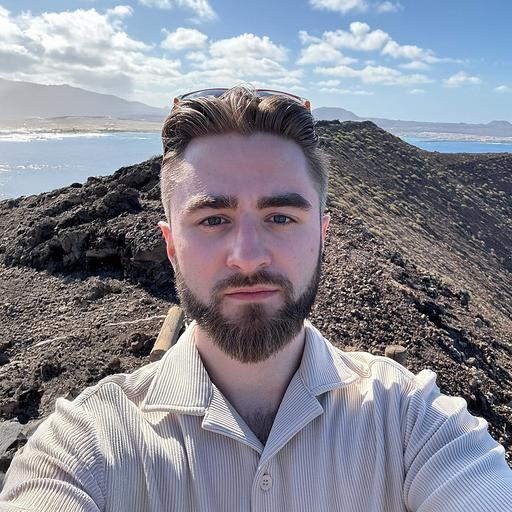
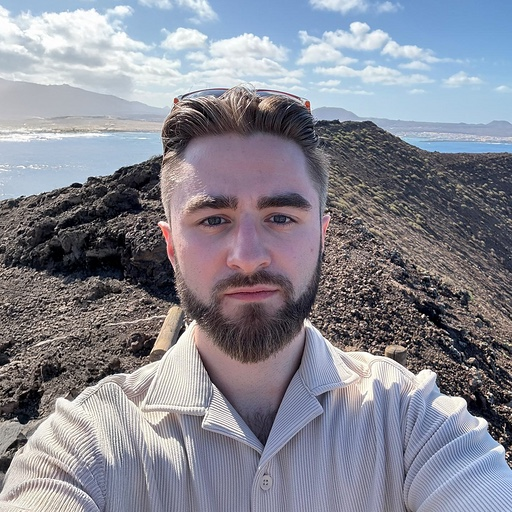
Updates

diff --git a/index.html b/index.html
@@ -14,8 +14,8 @@
     <meta name="theme-color" content="#141414">
     <meta name="apple-mobile-web-app-capable" content="yes">
     <meta name="apple-mobile-web-app-status-bar-style" content="black-translucent">
-    <script type="module" crossorigin src="/assets/index-N_7lyTsB.js"></script>
-    <link rel="stylesheet" crossorigin href="/assets/index-CEzeGbbk.css">
+    <script type="module" crossorigin src="/assets/index-DqF2M5rv.js"></script>
+    <link rel="stylesheet" crossorigin href="/assets/index-rmvKy0jj.css">
   </head>
   <body>
     <div id="root"></div>

diff --git a/assets/index-rmvKy0jj.css b/assets/index-rmvKy0jj.css
@@ -1,0 +1,1 @@
+@import"https://fonts.googleapis.com/css2?family=Inter:wght@300;400;500;600;700&family=JetBrains+Mono:wght@400;500;600&family=Press+Start+2P&display=swap";*{margin:0;padding:0;box-sizing:border-box}:root{--bg: #0a0a0f;--surface: rgba(17, 17, 24, .8);--surface-solid: #111118;--surface-hover: #18181f;--border: rgba(255, 255, 255, .08);--border-light: rgba(255, 255, 255, .12);--text: #f5f5f5;--text-dim: rgba(255, 255, 255, .55);--text-muted: rgba(255, 255, 255, .3);--green: #22C55E;--green-tint: rgba(34, 197, 94, .08);--green-glow: rgba(34, 197, 94, .25);--yellow: #f59e0b;--yellow-tint: rgba(245, 158, 11, .07);--yellow-glow: rgba(245, 158, 11, .25);--red: #EF4444;--red-tint: rgba(239, 68, 68, .08);--red-glow: rgba(239, 68, 68, .25);--purple: #F97316;--pink: #FB923C;--orange: #F97316}body{background:var(--bg);background-image:radial-gradient(ellipse at 20% 0%,rgba(139,92,246,.04) 0%,transparent 50%),radial-gradient(ellipse at 80% 100%,rgba(249,115,22,.03) 0%,transparent 50%);color:var(--text);font-family:Inter,-apple-system,BlinkMacSystemFont,Segoe UI,sans-serif;min-height:100vh;line-height:1.5}.app{max-width:1400px;margin:0 auto;padding:40px 60px;min-height:100vh}.header{display:flex;justify-content:space-between;align-items:flex-start;margin-bottom:48px;padding-bottom:24px;border-bottom:1px solid var(--border)}.header-left{display:flex;flex-direction:column;gap:4px}.title{font-size:28px;font-weight:700;letter-spacing:-.03em}.title-accent{background:linear-gradient(135deg,#f97316,#fb923c 40%,#fbbf24);-webkit-background-clip:text;-webkit-text-fill-color:transparent;background-clip:text;filter:drop-shadow(0 0 12px rgba(249,115,22,.15))}.title-text{color:var(--text);margin-left:8px;font-weight:300;opacity:.9}.subtitle{color:var(--text-muted);font-size:13px;letter-spacing:.01em}.header-right{display:flex;align-items:center;gap:16px}.period-selector{display:flex;gap:8px}.period-select{padding:8px 12px;background:var(--surface);border:1px solid var(--border);border-radius:8px;color:var(--text);font-size:13px;font-weight:500;cursor:pointer;outline:none}.period-select:hover{border-color:#ffffff26}.period-select:focus{border-color:var(--orange)}.view-toggle{display:flex;gap:4px;padding:4px;background:var(--surface);border-radius:10px;border:1px solid var(--border)}.toggle-btn{padding:8px 16px;border:none;border-radius:8px;font-size:13px;font-weight:500;color:var(--text-dim);background:transparent;cursor:pointer;transition:all .2s ease}.toggle-btn:hover{color:var(--text);background:var(--surface-hover)}.toggle-btn.active{color:var(--text);background:linear-gradient(135deg,#f9731633,#fb923c26)}.health-summary{display:flex;gap:8px}.health-item{display:flex;align-items:center;gap:6px;padding:6px 14px;border-radius:20px;font-size:13px;font-weight:600;font-family:JetBrains Mono,monospace;letter-spacing:-.02em;transition:all .2s ease}.health-item.green{background:#22c55e1a;color:var(--green);border:1px solid rgba(34,197,94,.2)}.health-item.green:hover{background:#22c55e26;box-shadow:0 0 12px #22c55e26}.health-item.yellow{background:#f59e0b14;color:var(--yellow);border:1px solid rgba(245,158,11,.2)}.health-item.yellow:hover{background:#f59e0b1f;box-shadow:0 0 12px #f59e0b26}.health-item.red{background:#ef44441a;color:var(--red);border:1px solid rgba(239,68,68,.2)}.health-item.red:hover{background:#ef444426;box-shadow:0 0 12px #ef444426}.health-dot{width:8px;height:8px;border-radius:50%;background:currentColor;box-shadow:0 0 6px currentColor}.health-label{font-size:10px;font-weight:500;font-family:Inter,sans-serif;text-transform:uppercase;letter-spacing:.04em;opacity:.8}.cards-grid{display:grid;grid-template-columns:repeat(2,1fr);gap:20px;animation:cards-fade-in .5s ease-out}@keyframes cards-fade-in{0%{opacity:0;transform:translateY(12px)}to{opacity:1;transform:translateY(0)}}.dept-card.dept-centered{grid-column:1 / -1;justify-self:center;width:calc(50% - 10px);max-width:100%}@media(max-width:1000px){.cards-grid{grid-template-columns:1fr}.dept-card.dept-centered{width:100%}.app{padding:24px 28px}}@media(max-width:640px){.app{padding:16px 14px}.cards-grid{gap:12px}.header{flex-direction:column;gap:12px;margin-bottom:20px;padding-bottom:16px;align-items:stretch}.title{font-size:20px}.subtitle{font-size:12px}.header-right{display:flex;flex-wrap:wrap;align-items:center;gap:8px;width:100%}.period-selector{display:flex;gap:6px;flex-shrink:0}.period-select{font-size:12px;padding:7px 8px;width:auto}.view-toggle{flex-shrink:0}.toggle-btn{padding:7px 10px;font-size:12px}.health-summary{gap:5px}.health-item{padding:4px 8px;font-size:11px;gap:4px}.health-dot{width:6px;height:6px}.sync-btn{width:30px;height:30px;font-size:14px}.dept-card{padding:14px 0 14px 12px;border-radius:12px;overflow:visible}.dept-header{margin-bottom:10px;padding-bottom:10px;gap:8px}.dept-icon{font-size:16px}.dept-name{font-size:14px}.dri-name{display:none}.dri-avatar{width:26px;height:26px}.dept-table{overflow-x:auto;-webkit-overflow-scrolling:touch;scrollbar-width:none;margin-right:-12px;padding-right:12px}.dept-table::-webkit-scrollbar{display:none}.time-headers{overflow-x:visible;margin-bottom:6px;min-width:max-content}.time-label-spacer{min-width:110px;max-width:110px;flex-shrink:0}.time-labels{gap:0;flex-shrink:0}.time-label{width:52px;min-width:52px;font-size:9px;text-align:center}.time-label.total-label{width:60px;min-width:60px;margin-left:10px;padding-left:8px;font-size:9px}.dept-metrics{gap:4px}.metric-row{padding:7px 0;overflow-x:visible;flex-wrap:nowrap;min-width:max-content}.metric-label{width:110px;min-width:110px;max-width:110px;gap:5px;flex-shrink:0;padding-left:0}.metric-icon{font-size:11px}.metric-name{font-size:10px}.metric-values{gap:0;flex-shrink:0;flex-wrap:nowrap}.metric-cell{width:52px;min-width:52px;gap:3px;flex-shrink:0}.metric-cell.total-cell{width:60px;min-width:60px;margin-left:10px;padding-left:8px}.metric-value{font-size:11px}.total-value{font-size:12px}.status-dot{width:5px;height:5px}.footer{margin-top:24px;font-size:11px}}.dept-card{background:#111118a6;backdrop-filter:blur(16px);-webkit-backdrop-filter:blur(16px);border-radius:16px;padding:24px 20px;border:1px solid var(--border-light);position:relative;overflow:visible;min-width:0;box-shadow:0 0 0 1px #ffffff08 inset,0 8px 32px #00000040,0 2px 8px #00000026;transition:border-color .3s ease,box-shadow .3s ease}.dept-card:hover{border-color:#ffffff1f;box-shadow:0 0 0 1px #ffffff0d inset,0 12px 40px #0000004d,0 4px 12px #0003}.dept-card:before{content:"";position:absolute;top:0;left:0;right:0;height:3px;background:linear-gradient(90deg,var(--accent) 0%,rgba(255,255,255,.05) 100%);opacity:.9;border-radius:16px 16px 0 0}.dept-header{display:flex;align-items:center;gap:10px;margin-bottom:20px;padding-bottom:16px;border-bottom:1px solid var(--border)}.dept-icon{font-size:20px}.dept-name{font-size:17px;font-weight:700;color:var(--text);letter-spacing:-.02em}.dri-avatars{display:flex;gap:10px;margin-left:auto}.dri-person{display:flex;align-items:center;gap:6px}.dri-avatar{width:32px;height:32px;border-radius:50%;overflow:hidden;border:2px solid var(--surface);flex-shrink:0}.dri-img{width:100%;height:100%;object-fit:cover}.dri-name{font-size:12px;color:var(--text-dim);font-weight:500}.time-headers{display:flex;align-items:center;margin-bottom:12px;padding:0 10px}.time-label-spacer{flex:1;min-width:140px;max-width:140px}.time-labels{display:flex;gap:4px}.time-label{width:64px;min-width:64px;text-align:center;font-size:10px;font-weight:500;color:var(--text-muted);letter-spacing:.02em}.time-label.empty{opacity:.3}.dept-metrics{display:flex;flex-direction:column;gap:8px}.metric-row{display:flex;align-items:center;padding:10px;border-radius:8px;background:#ffffff04;transition:background .2s ease,transform .15s ease;overflow:visible;border:1px solid transparent}.metric-row:hover{background:#ffffff0a;border-color:#ffffff0a}.metric-label{display:flex;align-items:center;gap:8px;width:140px;min-width:140px;max-width:140px;overflow:visible;position:relative;cursor:default}.metric-label[data-tooltip]:hover:after{content:attr(data-tooltip);position:absolute;left:0;top:100%;margin-top:6px;padding:6px 10px;background:#1a1a24;color:#ffffffd9;font-size:11px;font-weight:400;line-height:1.4;white-space:nowrap;border-radius:6px;border:1px solid rgba(255,255,255,.12);box-shadow:0 4px 16px #0006;z-index:100;pointer-events:none}.metric-icon{font-size:14px;opacity:.8}.metric-name{font-size:12px;color:var(--text-dim);font-weight:400;white-space:nowrap;overflow:hidden;text-overflow:ellipsis}.metric-values{display:flex;gap:4px;flex:1;min-width:0}.metric-cell{width:64px;min-width:64px;display:flex;align-items:center;justify-content:center;gap:4px;flex-shrink:0;padding:4px 2px;border-radius:6px;transition:background .2s ease}.metric-cell.cell-tint-green{background:var(--green-tint)}.metric-cell.cell-tint-yellow{background:var(--yellow-tint)}.metric-cell.cell-tint-red{background:var(--red-tint)}.metric-cell.empty-cell{opacity:.25}.status-dot{width:7px;height:7px;border-radius:50%;flex-shrink:0}.status-dot.status-green{background:var(--green);box-shadow:0 0 6px var(--green-glow)}.status-dot.status-yellow{background:var(--yellow);box-shadow:0 0 6px var(--yellow-glow)}.status-dot.status-red{background:var(--red);box-shadow:0 0 6px var(--red-glow)}.status-dot.status-neutral{background:var(--text-muted)}.status-text-green{color:var(--green)}.status-text-yellow{color:var(--yellow)}.status-text-red{color:var(--red)}.status-text-neutral{color:var(--text-muted)}.status-text-current{color:var(--text-dim)}.metric-cell.current-week{opacity:.7}.delta-badge{display:none}.metric-cell.total-cell{border-left:2px solid rgba(249,115,22,.35);margin-left:16px;padding-left:14px;min-width:88px;width:88px;background:#f973160a!important;border-radius:0 6px 6px 0;flex-shrink:0;justify-content:flex-start}.total-value{font-weight:700;font-size:14px}.time-label.total-label{color:#f97316e6;font-weight:700;border-left:2px solid rgba(249,115,22,.35);margin-left:16px;padding-left:14px;min-width:88px;width:88px;font-size:10px;letter-spacing:.05em;text-transform:uppercase;text-align:left}.metric-value{font-family:JetBrains Mono,monospace;font-size:14px;font-weight:500;letter-spacing:-.03em;white-space:nowrap}.footer{margin-top:48px;padding-top:24px;border-top:1px solid var(--border);text-align:center;color:var(--text-muted);font-size:12px;line-height:1.8}.footer a{color:var(--purple);text-decoration:none}.footer a:hover{text-decoration:underline}.loading-screen,.error-screen{display:flex;flex-direction:column;align-items:center;justify-content:center;min-height:100vh;gap:16px}.sync-btn{width:34px;height:34px;border-radius:10px;border:1px solid var(--border);background:#ffffff08;color:#ffffff80;font-size:16px;cursor:pointer;display:flex;align-items:center;justify-content:center;transition:all .25s ease;flex-shrink:0}.sync-btn:hover{border-color:var(--orange);color:var(--orange);background:#f973161a}.sync-btn.syncing{color:var(--orange);animation:spin 1s linear infinite}.loading-spinner{width:40px;height:40px;border:3px solid var(--border);border-top-color:var(--orange);border-radius:50%;animation:spin 1s linear infinite}@keyframes spin{to{transform:rotate(360deg)}}.error-screen button{padding:10px 20px;background:var(--orange);color:#fff;border:none;border-radius:8px;cursor:pointer}::-webkit-scrollbar{width:6px;height:6px}::-webkit-scrollbar-track{background:transparent}::-webkit-scrollbar-thumb{background:#ffffff1a;border-radius:3px}::-webkit-scrollbar-thumb:hover{background:#fff3}